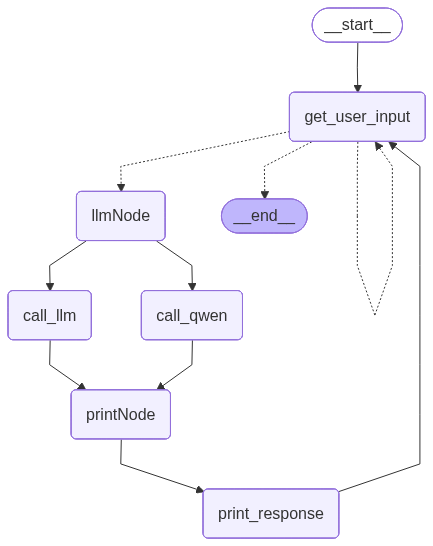
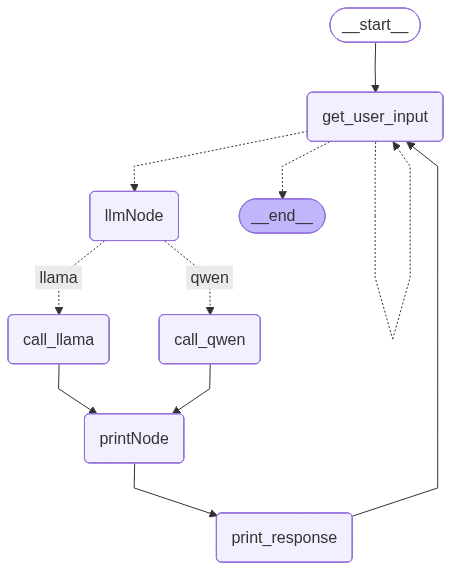
update node name, add task 4 & 5

diff --git a/Frameworks/langgraph_agent_3_llmNode.py b/Frameworks/langgraph_agent_3_llmNode.py
@@ -205,7 +205,7 @@ def create_graph(llm1, llm2):
     #   - user_input: Unchanged (read only)
     #   - should_continue: Unchanged (read only)
     #   - llm_response: Set to the LLM's generated response
-    def call_llm(state: AgentState) -> dict:
+    def call_llama(state: AgentState) -> dict:
         """
         Node that invokes the LLM with the user's input.
 
@@ -215,7 +215,7 @@ def create_graph(llm1, llm2):
             - llm_response: The text generated by the LLM
         """
         if state.get("verbose"): 
-            print("[TRACE] Entering call_llm node") 
+            print("[TRACE] Entering call_llama node") 
 
         user_input = state["user_input"]
 
@@ -243,7 +243,7 @@ def create_graph(llm1, llm2):
             - llm_response: The text generated by the LLM
         """
         if state.get("verbose"): 
-            print("[TRACE] Entering call_llm node") 
+            print("[TRACE] Entering call_qwen node") 
 
         user_input = state["user_input"]
 
@@ -336,7 +336,7 @@ def create_graph(llm1, llm2):
     # Add all three nodes to the graph
     graph_builder.add_node("get_user_input", get_user_input)
     graph_builder.add_node("llmNode", llmNode)
-    graph_builder.add_node("call_llm", call_llm)
+    graph_builder.add_node("call_llama", call_llama)
     graph_builder.add_node("call_qwen", call_qwen)
     graph_builder.add_node("printNode", printNode)
     graph_builder.add_node("print_response", print_response)
@@ -357,10 +357,10 @@ def create_graph(llm1, llm2):
         }
     )
 
-    graph_builder.add_edge("llmNode", "call_llm")
+    graph_builder.add_edge("llmNode", "call_llama")
     graph_builder.add_edge("llmNode", "call_qwen")
 
-    graph_builder.add_edge("call_llm", "printNode")
+    graph_builder.add_edge("call_llama", "printNode")
     graph_builder.add_edge("call_qwen", "printNode")
 
     # 3. call_llm -> print_response (always print after LLM responds)
@@ -443,6 +443,7 @@ def main():
         "user_input": "",
         "should_exit": False,
         "llm_response": "",
+        "qwen_response": "",
         "verbose": False
     }
 
